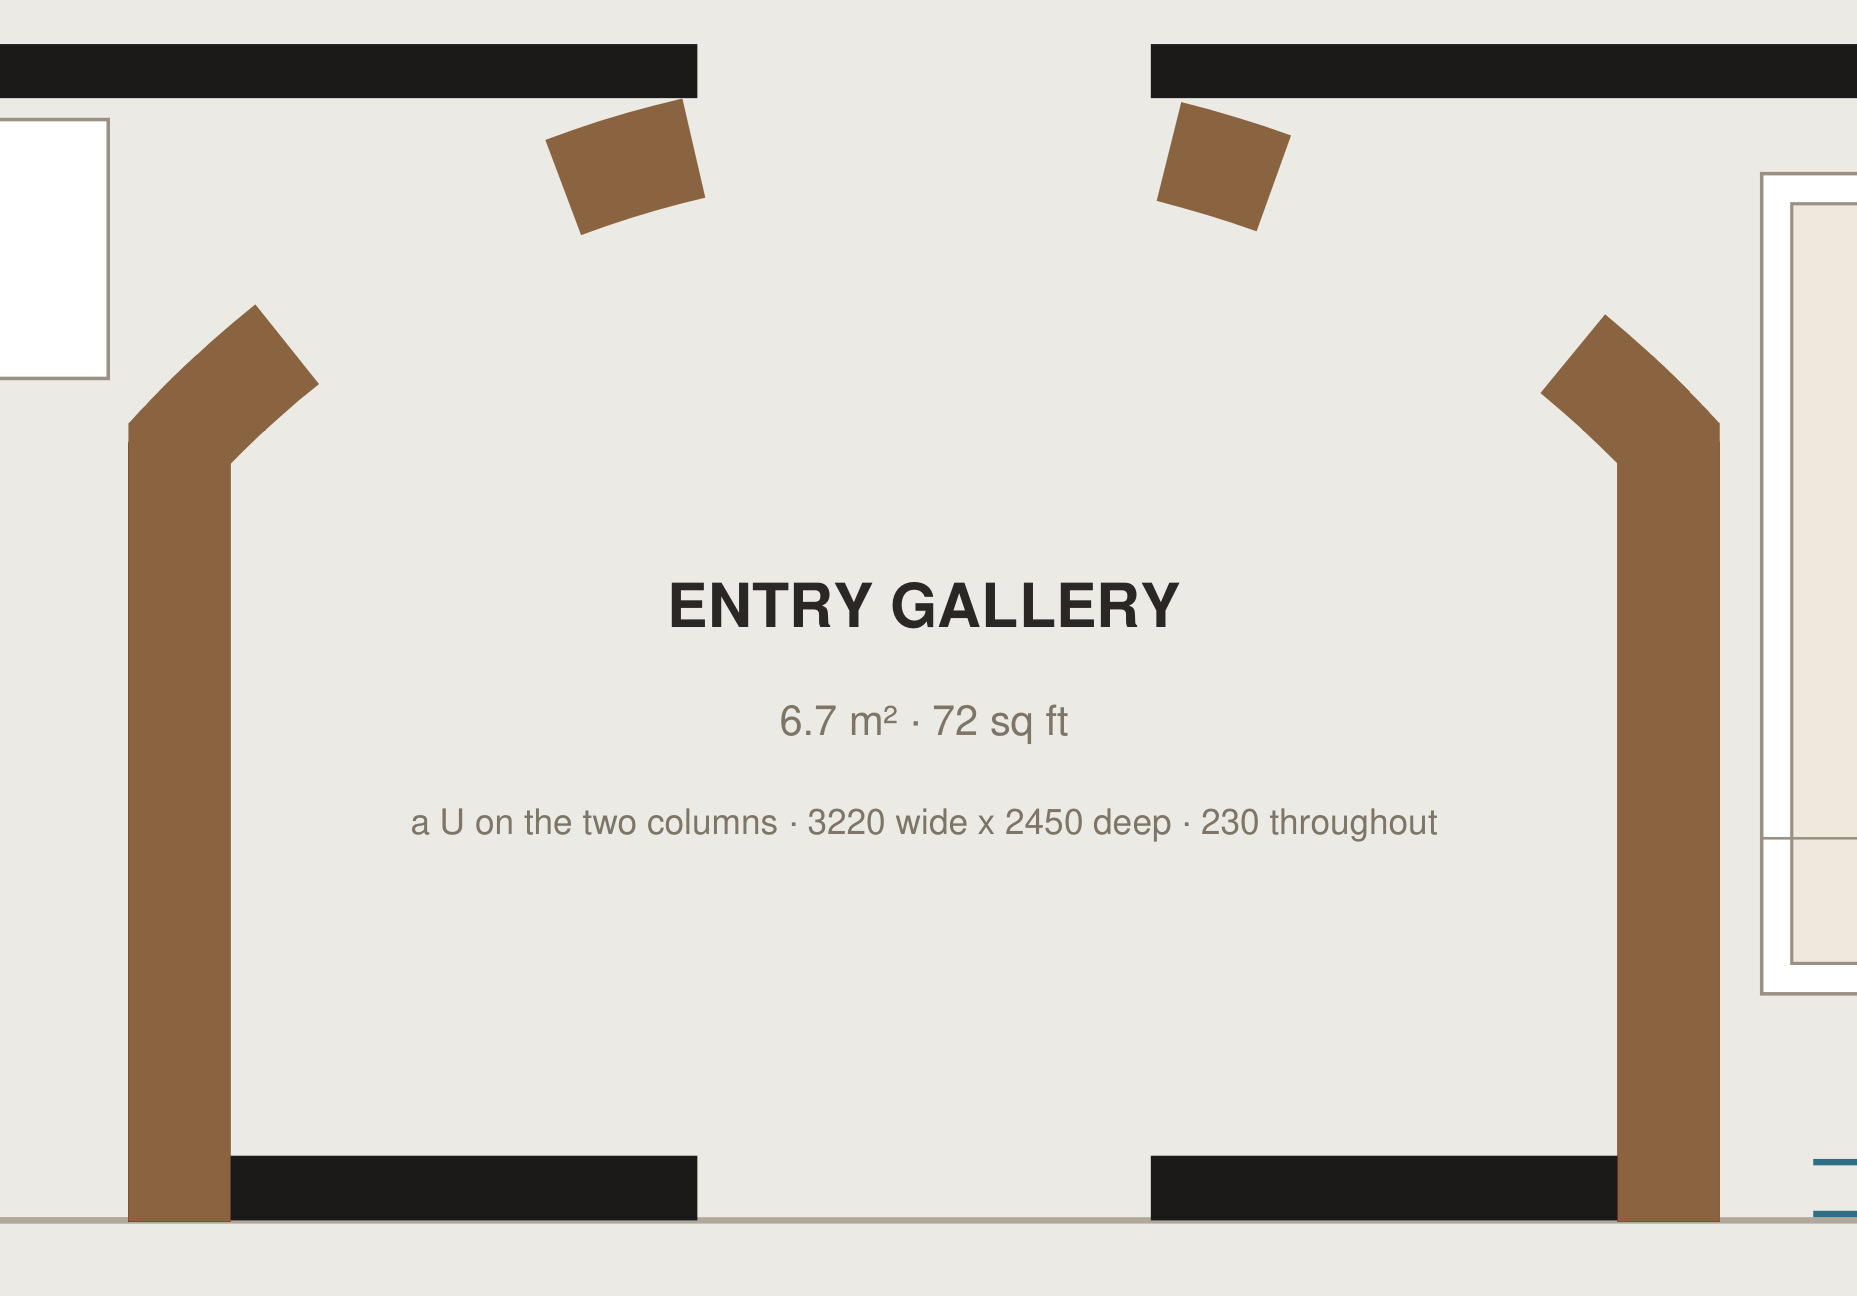
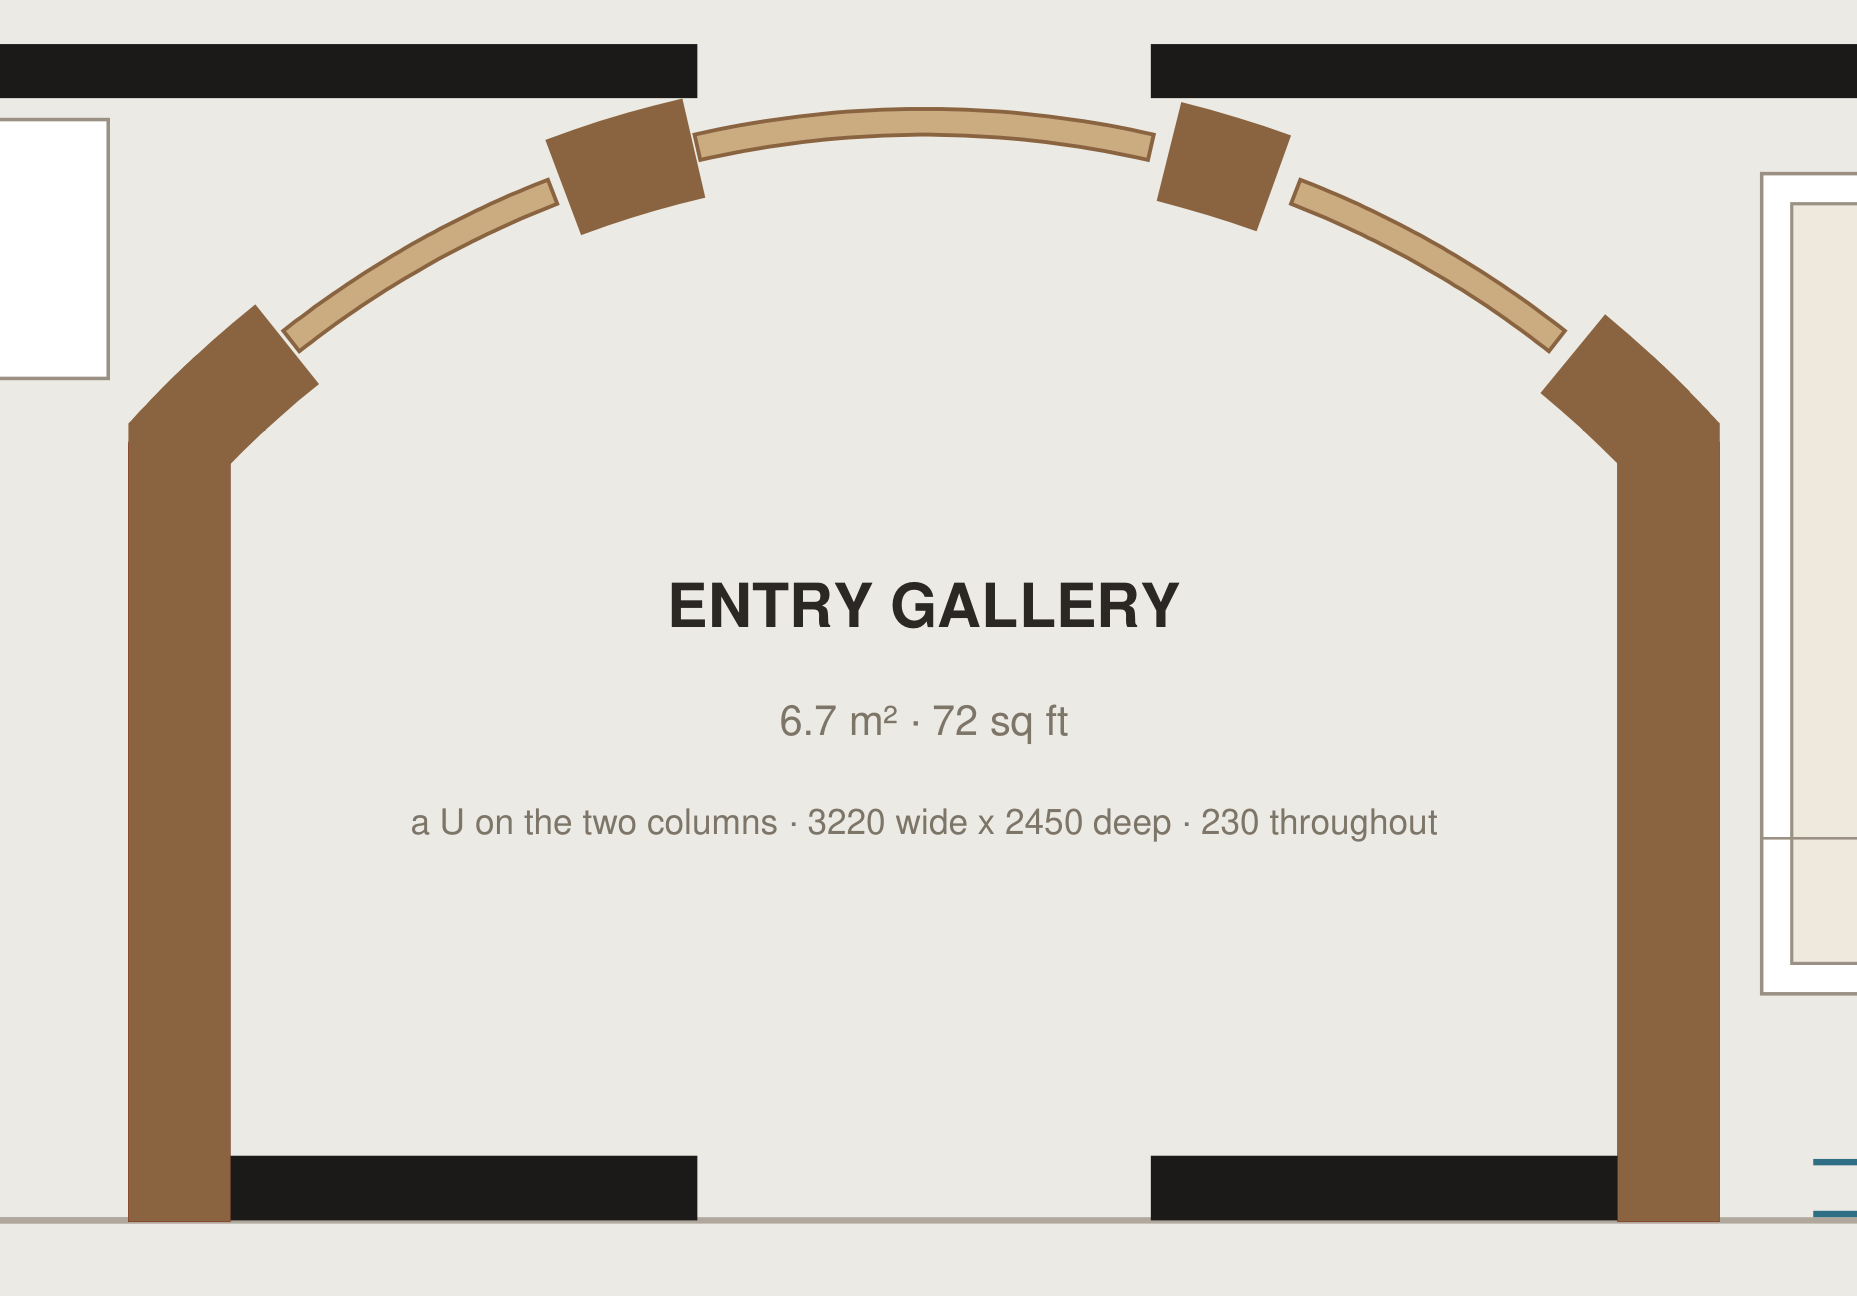
WIP: draw the three arch doors shut, as curved leaves
Awaiting the word to ship — out/round1-layout.dxf is deliberately NOT rebuilt
and is still the last shipped version.  The PNGs are current.

Each leaf is curved on the arch's own 2370 radius and drawn in the closed
position, so the U reads as one unbroken sweep from leg to leg and the four
351 piers read as the frames the doors hang in rather than fragments of a
broken arch.  700 west to the kitchen, 1050 at the crown to the great room,
700 east to help's room.

No swing is drawn, deliberately: a leaf curved to that radius cannot hinge —
the far edge would drive into the wall — so these are curved sliders running
on a track along the arc.  Flagged for the joinery: a 700 leaf cannot pocket
into a 351 pier, so each has to slide across the face of the arch and sit
proud on one side.

Drawn lighter than the wall in the render, and written to the DXF as outline
polylines on PROP-SCREEN with no hatch, so they read as doors and not masonry.

verify.py: all checks pass.

Claude-Session: https://claude.ai/code/session_01HE1ZiZE53Xo6n73hYxijkS

Changed region(s): [[0.3748, 0.0617, 0.6247, 0.1235], [0.6871, 0.1235, 0.8433, 0.2778], [0.1562, 0.1235, 0.3123, 0.2778]]

diff --git a/CAD/tools/draw_design.py b/CAD/tools/draw_design.py
@@ -33,6 +33,7 @@ TXT = '#2a2724'
 TXT2 = '#7d7568'
 DIMC = '#6f6a60'
 WOOD = '#8a6440'
+WOODL = '#cbab80'
 
 
 def esc(s):
@@ -282,6 +283,8 @@ def main():
             s.poly(q, fill=WOOD, stroke=WOOD, stroke_width=0.8)
     for q in R.arch_haunches():          # springer blocks, arch on to leg
         s.poly(q, fill=WOOD, stroke=WOOD, stroke_width=0.8)
+    for q in R.arch_doors():             # the three doors, shut
+        s.poly(q, fill=WOODL, stroke=WOOD, stroke_width=1.2)
 
     # --------------------------------------------------------------- labels
     def area_of(rects):
@@ -351,7 +354,8 @@ def main():
             (KEEP, 'builder column / beam, and keep-clear shaft, duct or void'),
             (NEWW, 'new masonry — every wall is new, every opening a gap in it'),
             (GLAS, 'glazing / sliding glass'),
-            (WOOD, 'the U of the entry gallery — 230, on the two columns')]):
+            (WOOD, 'the U of the entry gallery — 230, on the two columns'),
+            (WOODL, 'curved doors, drawn shut — they slide on the arc')]):
         s.o.append(f'<rect x="{s.X(lx):.1f}" y="{s.Y(ly) + i * 26 - 13:.0f}" width="34" '
                    f'height="17" fill="{col}" stroke="#888" stroke-width="0.6"/>')
         s.o.append(f'<text x="{s.X(lx) + 46:.1f}" y="{s.Y(ly) + i * 26:.0f}" '

diff --git a/CAD/tools/retrofit.py b/CAD/tools/retrofit.py
@@ -200,6 +200,29 @@ def arch_haunches():
     return out
 
 
+def arch_doors(leaf=60):
+    """The three doors in the arch, drawn SHUT.
+
+    Each leaf is curved on the same radius as the wall it sits in, so with the
+    doors closed the arch reads as one continuous sweep and the U is whole.
+    A leaf curved to a 2370 radius cannot swing — it has to slide on the face
+    of the arc — so no swing is drawn; the leaf is shown where it lives.
+    """
+    cx, cy, r, t, gaps = D.GALLERY
+    out = []
+    for a0, a1 in gaps:
+        if (a1 - a0) % 360 > 60:          # the big gap below the springings
+            continue
+        ang = np.linspace(a0, a1, 40)
+        inner = [(cx + math.cos(math.radians(a)) * (r - leaf / 2),
+                  cy + math.sin(math.radians(a)) * (r - leaf / 2)) for a in ang]
+        outer = [(cx + math.cos(math.radians(a)) * (r + leaf / 2),
+                  cy + math.sin(math.radians(a)) * (r + leaf / 2))
+                 for a in reversed(ang)]
+        out.append(inner + outer)
+    return out
+
+
 def corner_units():
     """The mandir and the coffee / pantry, as drawing primitives.
 

diff --git a/CAD/tools/build_dxf.py b/CAD/tools/build_dxf.py
@@ -200,6 +200,8 @@ def main():
         h = msp.add_hatch(color=32, dxfattribs={'layer': 'PROP-SCREEN'})
         h.paths.add_polyline_path([P(x, y) for x, y in q], is_closed=True)
         h.set_solid_fill(color=32)
+    for q in R.arch_doors():          # leaves, outline only — they are doors
+        poly(msp, q, 'PROP-SCREEN')
 
     # --------------------------------------------------------------- glazing
     for Pc in (D.POD_W, D.POD_E):
